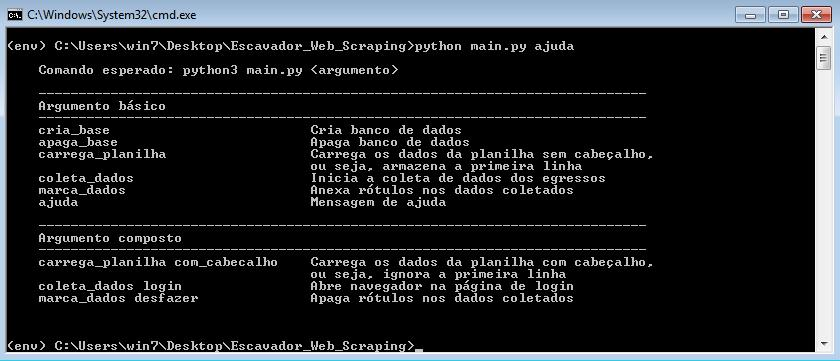
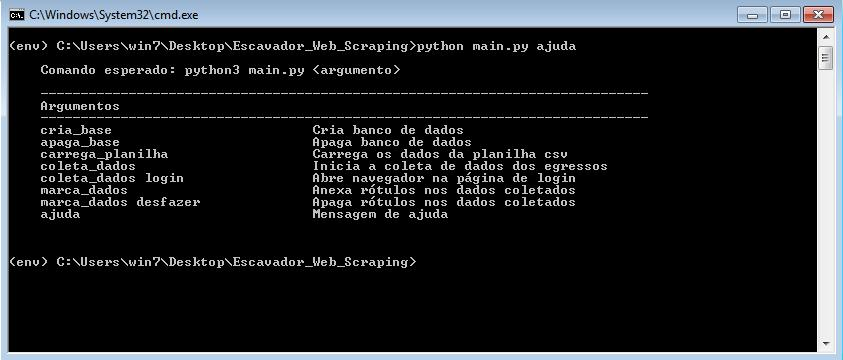
Atualiza model

Changed region(s): [[0.0, 0.0, 1.0, 1.0], [0.65, 0.1222, 0.681, 0.1528]]

diff --git a/persistent_storage/model.py b/persistent_storage/model.py
@@ -32,8 +32,8 @@ class BaseModel(Model):
             user = os.environ.get('USER').strip()
             password = os.environ.get('PASSWORD').strip()
             port = int(os.environ.get('PORT'))
-            database = PostgresqlDatabase(namedatabase, user=user, password=password, host=host, port=port) 
-            # database = MySQLDatabase(namedatabase, user=user, password=password, host=host, port=3306)
+            # database = PostgresqlDatabase(namedatabase, user=user, password=password, host=host, port=port) 
+            database = MySQLDatabase(namedatabase, user=user, password=password, host=host, port=3306)
         except:
             print(msg_error.format("classe BaseModel", "não foi possível estabelecer conexão com o banco  de dados"))
             logger.error( traceback.format_exc() )

diff --git a/MANUAL-DO-SISTEMA-WINDOWS.md b/MANUAL-DO-SISTEMA-WINDOWS.md
@@ -73,19 +73,6 @@ python main.py ajuda
 
 ```
 
-```  
-    ----------------------------------------------------------------------------
-    Argumentos
-    ----------------------------------------------------------------------------
-    cria_base                         Cria banco de dados
-    apaga_base                        Apaga banco de dados
-    carrega_planilha                  Carrega os dados da planilha csv
-    coleta_dados                      Inicia a coleta de dados dos egressos
-    coleta_dados login                Abre navegador na página de login
-    marca_dados                       Anexa rótulos nos dados coletados   
-    marca_dados desfazer              Apaga rótulos nos dados coletados
-    ajuda                             Mensagem de ajuda       
-```
 <figure>
 	<img src="documentacao/image/cmd-execucao-main.jpg" alt="Prompt de Comando conhecendo as funcionalidades" width="600">
 	<figcaption>Figura 4 - Prompt de Comando conhecendo a funcionalidades do programa</figcaption>
@@ -126,10 +113,10 @@ python main.py apaga_base
 </figure>
 
 
-### <a name="2.2.4.2."></a> 2.2.4.2. Executando funcionalidade carrega planilha
-
+### <a name="2.2.4.3."></a> 2.2.4.3. Executando funcionalidade carrega planilha
 
 Digite o comando a seguir no Prompt de comando para carregar a planilha CSV com os dados do aluno e salvar no banco de dados. Nesse funcionalidade espera-se que a planilha não tenha cabeçalho, pois o programa vai tentar armazenar a primeira linha da mesma. O resultado esperado está na Figura 7, uma janela esperando que o usuário selecione a planilha que será processada.
+
 ```
 python main.py carrega_planilha
 
@@ -149,9 +136,44 @@ A Figura 8 apresenta a mensagem de sucesso após a realização do processamento
 	<figcaption>Figura 8 - Funcionalidade carrega planilha </figcaption>
 </figure>
 
-Um exemplo de planilha que o programa espera é apresentado na Figura 9, ela tem a coluna Matrícula, Nome de Aluno, Data de Nascimento, Nome do curso, Ano de Início, Período de Início, Ano de fim, Período de fim e o Sexo do aluno. Obs.: Espera-se que a planilha tenha codificação UTF e o delimitador seja uma virgula.
+Um exemplo de planilha que o programa espera é apresentado na Figura 9, ela deve ter nesta ordem as colunas: Matrícula, Nome de Aluno, Data de Nascimento, Nome do curso, Ano de Início, Período de Início, Ano de fim, Período de fim e o Sexo do aluno. Obs.: Espera-se que a planilha tenha o cabeçalho apresentado na imagem a seguir, tenha a codificação UTF-8 e o delimitador seja ou uma vírgula ou um ponto e vírgula.
 
 <figure>
-	<img src="documentacao/image/programa-carrega-planilha4.jpg" alt="Funcionalidade carrega planilha" width="600">
+	<img src="documentacao/image/programa-carrega-planilha4.jpg" alt="Funcionalidade carrega planilha" width="800">
 	<figcaption>Figura 9 - Funcionalidade carrega planilha </figcaption>
 </figure>
+
+
+
+### <a name="2.2.4.4."></a> 2.2.4.4. Executando funcionalidade coleta de dados
+
+Antes de executar a funcionalidade coleta de dados, deve-se criar um arquivo JSON nomeado `config_coleta.json` na pasta do programa, o JSON deve ser idêntico ao apresentado na Figura 10, podendo mudar somente os valores. Ele que define a configuração da coleta. Cada variável será apresentada a seguir:
+
+* `tempo_entre_pagina`: o valor desta variável representa o tempo em segundos que será esperado a mais entre a visita de uma página perfil e outra visita.
+
+* `tempo_entre_busca`: o valor desta variável representa o tempo em segundos que será esperado a mais entre uma pesquisa de combinação de nome e outra pesquisa.
+
+* `pesquisar_hoje`: o valor desta variável representa o máximo de pesquisas  de combinação de nome que poderão ser realizadas na data atual da execução do sistema.
+
+* `encontrado_hoje`: o valor desta variável representa o máximo de páginas de perfil que poderão ser salvas na data atual da execução do sistema.
+
+
+<figure>
+	<img src="documentacao/image/config-coleta.jpg" alt="Funcionalidade coleta de dados" width="500">
+	<figcaption>Figura 10 - Funcionalidade coleta de dados </figcaption>
+</figure>
+
+
+Depois de configurar o arquivo JSON, digite o comando a seguir no Prompt de comando para iniciar a coleta de dados através das páginas de perfil. O resultado esperado está na Figura 11, uma mensagem informando o sucesso na execução dessa funcionalidade.
+
+```
+python main.py coleta_dados
+
+```
+
+<figure>
+	<img src="documentacao/image/programa-coleta-dados.jpg" alt="Funcionalidade coleta de dados" width="600">
+	<figcaption>Figura 11 - Funcionalidade coleta de dados </figcaption>
+</figure>
+
+### <a name="2.2.4.5."></a> 2.2.4.5. Executando funcionalidade login para coleta de dados 
